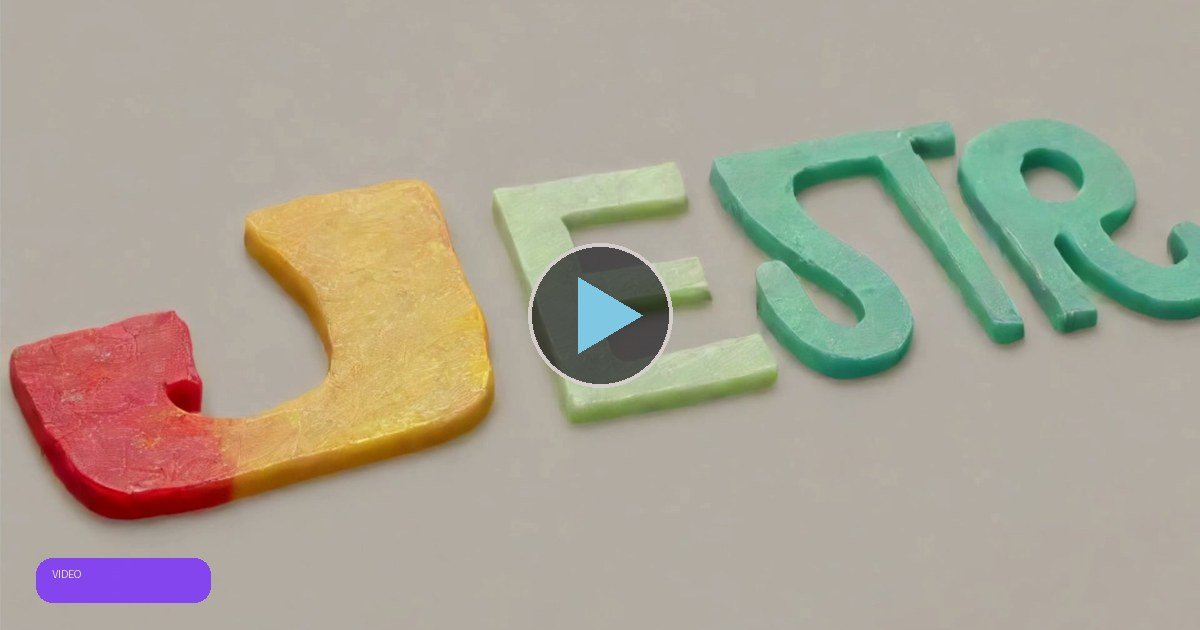
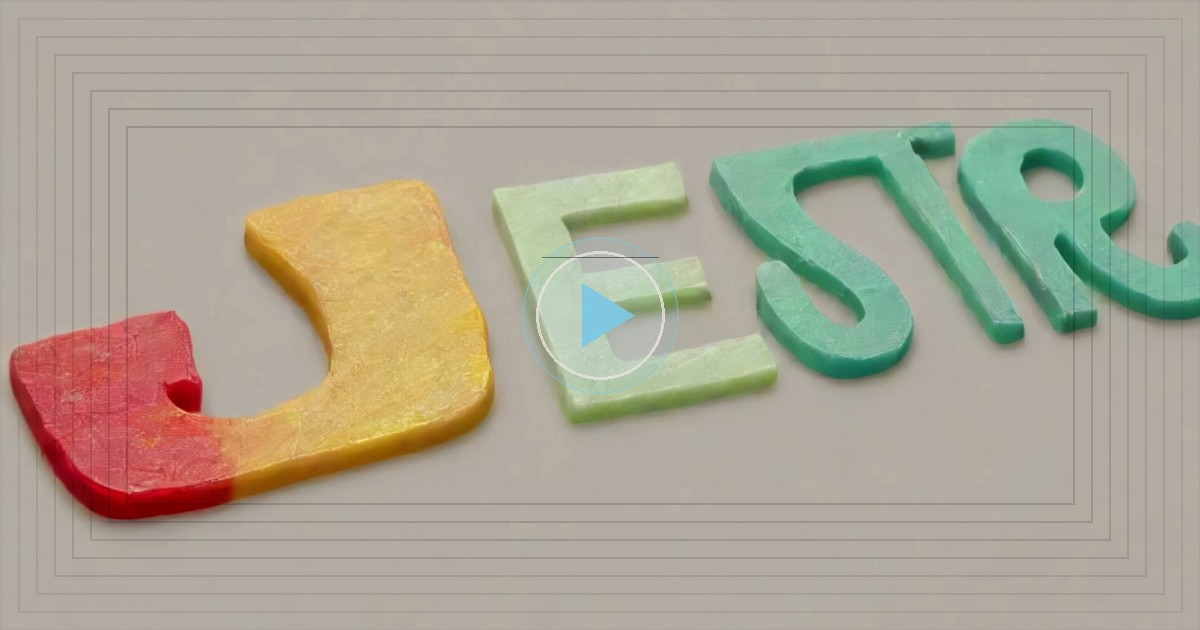
fix(video): OG preview = poster + glass play; no purple VIDEO badge
Regenerate jazzpotwax-og.jpg. Mobile gallery shows glass play on touch.

diff --git a/css/styles.css b/css/styles.css
@@ -1166,14 +1166,29 @@ html.orbit-resizing .win {
 }
 .gallery-item-video .gallery-video-hover-play {
   position: absolute; inset: 0; display: flex; align-items: center; justify-content: center;
-  background: rgba(3,2,10,.45); opacity: 0; pointer-events: none;
-  transition: opacity .18s ease;
+  background: rgba(3,2,10,.28); opacity: 0; pointer-events: none;
+  transition: opacity .18s ease, background .18s ease;
 }
 .gallery-item-video:hover .gallery-video-hover-play { opacity: 1; }
-.gallery-item-video .gallery-video-hover-play .material-symbols-outlined {
-  font-size: 40px; color: var(--baby-blue);
-  filter: drop-shadow(0 0 14px rgba(123,47,255,.75));
+.gallery-item-video .gallery-video-glass-play {
+  width: 52px; height: 52px; border-radius: 50%;
+  display: flex; align-items: center; justify-content: center;
+  background: rgba(255,255,255,.07);
+  border: 1px solid rgba(255,255,255,.14);
+  border-top-color: rgba(255,255,255,.22);
+  box-shadow: 0 6px 22px rgba(0,0,0,.45), inset 0 1px 0 rgba(255,255,255,.1);
+  backdrop-filter: blur(10px); -webkit-backdrop-filter: blur(10px);
+}
+.gallery-item-video .gallery-video-glass-play .material-symbols-outlined {
+  font-size: 30px; color: var(--baby-blue); margin-left: 3px;
+  filter: drop-shadow(0 0 10px rgba(126,200,227,.55));
   font-variation-settings: 'FILL' 1;
+}
+@media (hover: none) and (pointer: coarse) {
+  .gallery-item-video .gallery-video-hover-play {
+    opacity: 1;
+    background: rgba(3,2,10,.22);
+  }
 }
 .gallery-item-video .gallery-view-btn { display: none; }
 

diff --git a/functions/video/[slug].js b/functions/video/[slug].js
@@ -5,7 +5,7 @@ export async function onRequest(context) {
     'jazzpotwax': {
       title: 'Jazzpot Wax',
       poster: '/videos/jazzpotwax-og.jpg',
-      description: 'Watch on AnchorTurtle',
+      description: 'jestR · AnchorTurtle',
     },
   };
 
@@ -16,14 +16,14 @@ export async function onRequest(context) {
   const imageUrl = `${siteUrl}${video.poster}`;
   const appUrl = `${siteUrl}/#video/${slug}`;
 
-  const title = `${video.title} | AnchorTurtle`;
+  const title = video.title;
 
   const html = `<!DOCTYPE html>
 <html lang="en">
 <head>
   <meta charset="UTF-8">
   <meta name="viewport" content="width=device-width, initial-scale=1.0">
-  <title>${title}</title>
+  <title>${title} | AnchorTurtle</title>
 
   <link rel="icon" type="image/png" sizes="256x256" href="${siteUrl}/images/at-sea-trans-256.png">
   <link rel="apple-touch-icon" href="${siteUrl}/images/at-sea-trans-256.png">

diff --git a/js/gallery.js b/js/gallery.js
@@ -148,7 +148,9 @@ function renderGalleryVideos() {
     const poster = v.poster || v.src;
     return `<div class="gallery-item gallery-item-video" data-vi="${i}">
       <img class="gallery-video-thumb" src="${poster}" alt="${v.title || 'Video'}" loading="lazy"/>
-      <div class="gallery-video-hover-play" aria-hidden="true"><span class="material-symbols-outlined">play_arrow</span></div>
+      <div class="gallery-video-hover-play" aria-hidden="true">
+        <span class="gallery-video-glass-play"><span class="material-symbols-outlined">play_arrow</span></span>
+      </div>
     </div>`;
   }).join('');
 

diff --git a/scripts/make_video_og.py b/scripts/make_video_og.py
@@ -1,4 +1,4 @@
-"""Bake last-frame poster into 1200x630 OG card with play + VIDEO badge."""
+"""1200x630 link-preview card: video frame + orbit glass play (no VIDEO badge)."""
 from PIL import Image, ImageDraw
 import os
 
@@ -17,12 +17,43 @@ im = im.crop((left, top, left + target[0], top + target[1]))
 
 draw = ImageDraw.Draw(im, "RGBA")
 cx, cy = target[0] // 2, target[1] // 2
-r = 72
-draw.ellipse((cx - r, cy - r, cx + r, cy + r), fill=(3, 2, 10, 150), outline=(233, 225, 222, 220), width=4)
-tri = [(cx - 22, cy - 38), (cx - 22, cy + 38), (cx + 42, cy)]
-draw.polygon(tri, fill=(126, 200, 227, 255))
-draw.rounded_rectangle((36, target[1] - 72, 210, target[1] - 28), radius=16, fill=(123, 47, 255, 210))
-draw.text((52, target[1] - 62), "VIDEO", fill=(233, 225, 222, 255))
 
-im.save(out, quality=88)
+# Soft vignette (readability, still shows the frame)
+for i in range(8):
+    pad = i * 18
+    alpha = int(12 + i * 4)
+    draw.rectangle(
+        (pad, pad, target[0] - pad, target[1] - pad),
+        outline=(3, 2, 10, alpha),
+        width=2,
+    )
+
+# Glass play: outer glow ring (baby-blue, not purple)
+r_outer = 78
+draw.ellipse(
+    (cx - r_outer, cy - r_outer, cx + r_outer, cy + r_outer),
+    fill=(126, 200, 227, 28),
+    outline=(126, 200, 227, 90),
+    width=2,
+)
+
+# Frosted disc
+r = 64
+draw.ellipse(
+    (cx - r, cy - r, cx + r, cy + r),
+    fill=(255, 255, 255, 38),
+    outline=(233, 225, 222, 200),
+    width=3,
+)
+draw.ellipse(
+    (cx - r + 6, cy - r + 6, cx + r - 6, cy - r + 6),
+    fill=(3, 2, 10, 120),
+    outline=None,
+)
+
+# Play triangle (baby-blue)
+tri = [(cx - 18, cy - 32), (cx - 18, cy + 32), (cx + 34, cy)]
+draw.polygon(tri, fill=(126, 200, 227, 245))
+
+im.save(out, quality=90)
 print("wrote", out, os.path.getsize(out))
